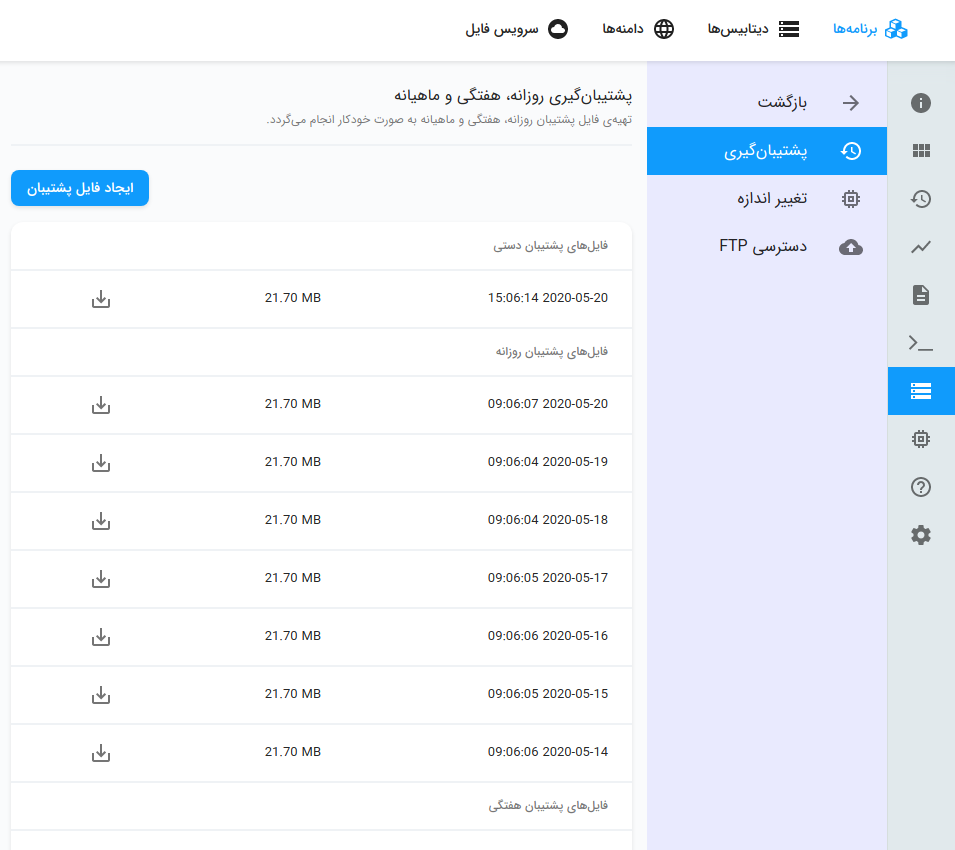
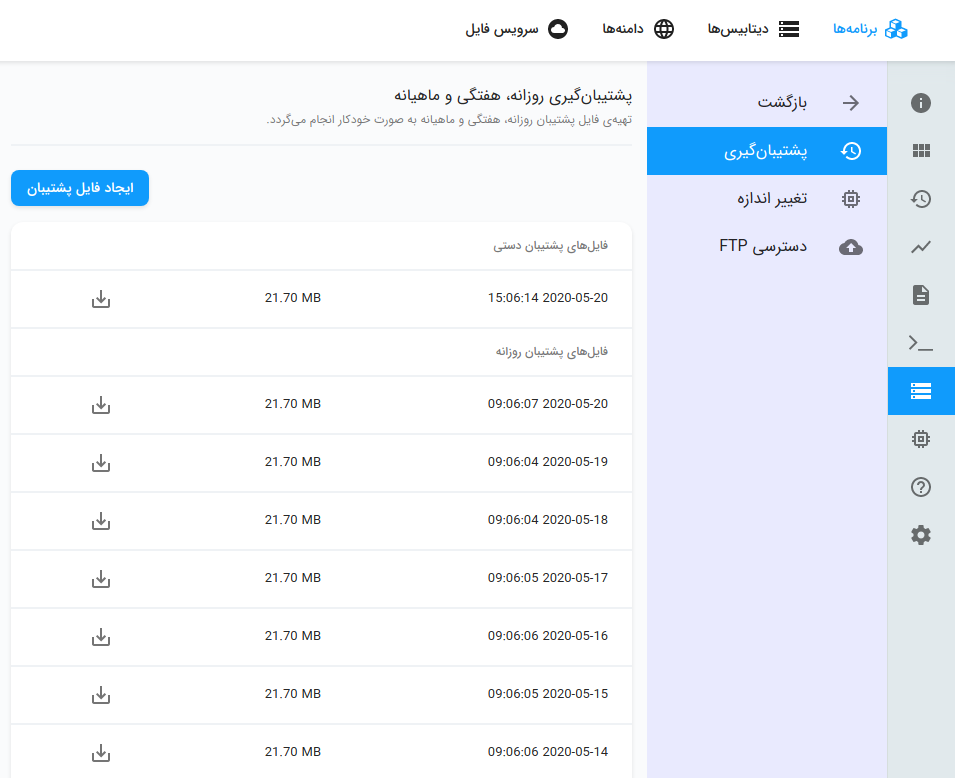
Updated disks and databases backup docs for new backup policy.

diff --git a/pages/storage/disks/backup-restore.js b/pages/storage/disks/backup-restore.js
@@ -15,8 +15,8 @@ export default () => (
     <p>
       لیارا این امکان را به شما میدهد که بتوانید به راحتی از پوشهها و فایلهای
       موجود در هر دیسک فایل پشتیبان تهیه کنید. عملیات پشتیبانگیری خودکار به
-      صورت روزانه، هفتگی و ماهانه انجام میشود و در عین حال شما میتوانید هر
-      زمان که خواستید به صورت دستی نیز فایل پشتیبان تهیه کنید.
+      صورت روزانه انجام میشود و در عین حال شما میتوانید هر زمان که خواستید به
+      صورت دستی نیز فایل پشتیبان تهیه کنید.
       <ZoomableImage
         src="/static/disks/backup.png"
         alt="صفحهی پشتیبانگیری دیسک"

diff --git a/pages/databases/mysql-mariadb/backup.js b/pages/databases/mysql-mariadb/backup.js
@@ -25,10 +25,9 @@ export default () => (
 
     <h3>MySQL / MariaDB Backup</h3>
     <p>
-      {" "}
-      لیارا، روزانه، هفتگی و ماهانه از دیتابیسهای شما به صورت خودکار Backup یا
-      همان فایل پشتیبان تهیه میکند. برای مشاهده این فایلها کافیست به منوی{" "}
-      <b>پشتیبانگیری</b> در صفحه دیتابیس موردنظرتان بروید:
+      لیارا هر روز به صورت خودکار از دیتابیسهای شما Backup یا همان فایل پشتیبان
+      تهیه میکند. برای مشاهده این فایلها کافیست به منوی <b>پشتیبانگیری</b> در
+      صفحه دیتابیس موردنظرتان بروید:
     </p>
     <ZoomableImage
       src="/static/databases/mysql-liara-backup.png"

diff --git a/pages/databases/postgresql/backup.js b/pages/databases/postgresql/backup.js
@@ -24,10 +24,9 @@ export default () => (
 
     <h3>PostgreSQL Backup</h3>
     <p>
-      {" "}
-      لیارا، روزانه، هفتگی و ماهانه از دیتابیسهای شما به صورت خودکار Backup یا
-      همان فایل پشتیبان تهیه میکند. برای مشاهده این فایلها کافیست به منوی{" "}
-      <b>پشتیبانگیری</b> در صفحه دیتابیس موردنظرتان بروید:
+      لیارا هر روز به صورت خودکار از دیتابیسهای شما Backup یا همان فایل پشتیبان
+      تهیه میکند. برای مشاهده این فایلها کافیست به منوی <b>پشتیبانگیری</b> در
+      صفحه دیتابیس موردنظرتان بروید:
     </p>
     <ZoomableImage
       src="/static/databases/mysql-liara-backup.png"

diff --git a/pages/databases/mongodb/backup.js b/pages/databases/mongodb/backup.js
@@ -24,10 +24,9 @@ export default () => (
 
     <h1>MongoDB Backup</h1>
     <p>
-      {" "}
-      لیارا، روزانه، هفتگی و ماهانه از دیتابیسهای شما به صورت خودکار Backup یا
-      همان فایل پشتیبان تهیه میکند. برای مشاهده این فایلها کافیست به منوی{" "}
-      <b>پشتیبانگیری</b> در صفحه دیتابیس موردنظرتان بروید:
+      لیارا هر روز به صورت خودکار از دیتابیسهای شما Backup یا همان فایل پشتیبان
+      تهیه میکند. برای مشاهده این فایلها کافیست به منوی <b>پشتیبانگیری</b> در
+      صفحه دیتابیس موردنظرتان بروید:
     </p>
     <ZoomableImage
       src="/static/databases/mysql-liara-backup.png"

diff --git a/pages/databases/redis/backup.js b/pages/databases/redis/backup.js
@@ -24,10 +24,9 @@ export default () => (
 
     <h3>Redis Backup</h3>
     <p>
-      {" "}
-      لیارا، روزانه، هفتگی و ماهانه از دیتابیسهای شما به صورت خودکار Backup یا
-      همان فایل پشتیبان تهیه میکند. برای مشاهده این فایلها کافیست به منوی{" "}
-      <b>پشتیبانگیری</b> در صفحه دیتابیس موردنظرتان بروید:
+      لیارا هر روز به صورت خودکار از دیتابیسهای شما Backup یا همان فایل پشتیبان
+      تهیه میکند. برای مشاهده این فایلها کافیست به منوی <b>پشتیبانگیری</b> در
+      صفحه دیتابیس موردنظرتان بروید:
     </p>
     <ZoomableImage
       src="/static/databases/mysql-liara-backup.png"
